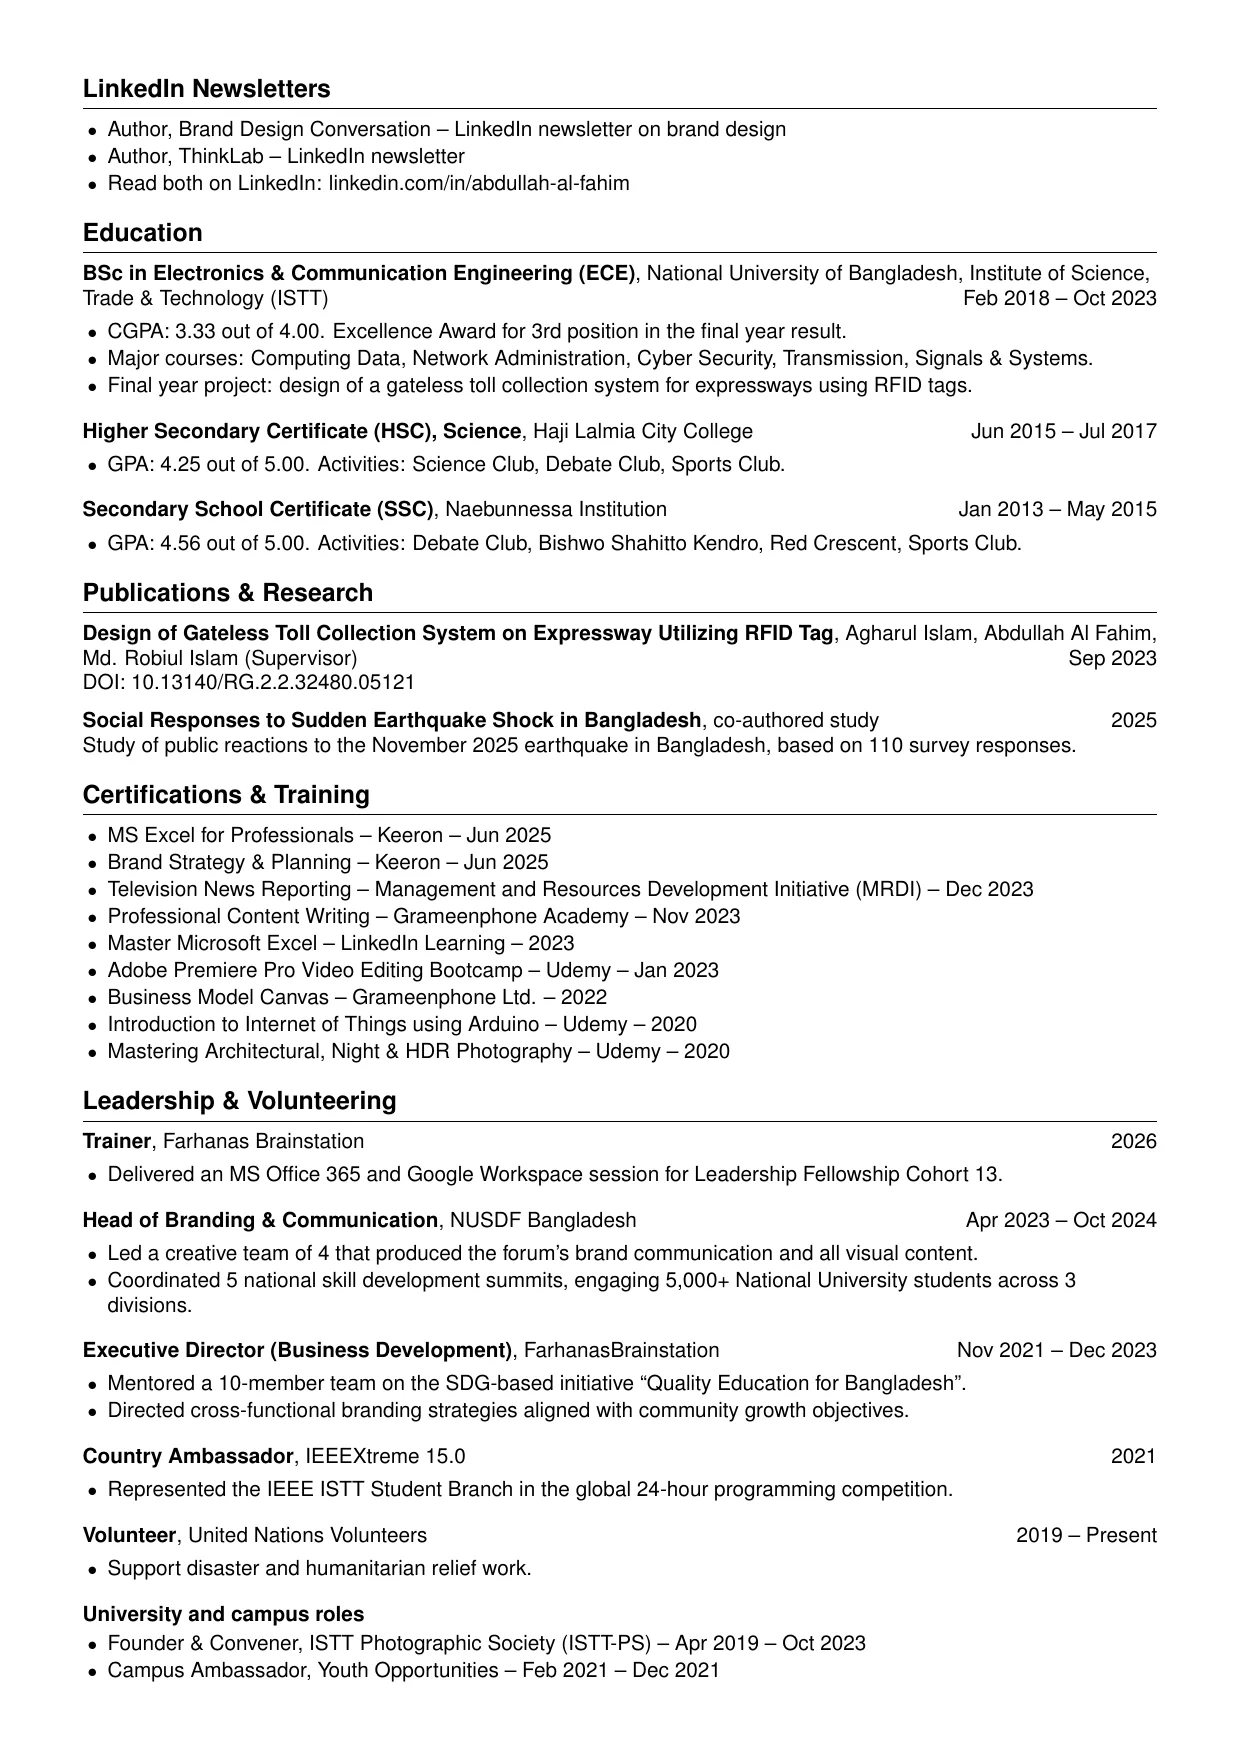
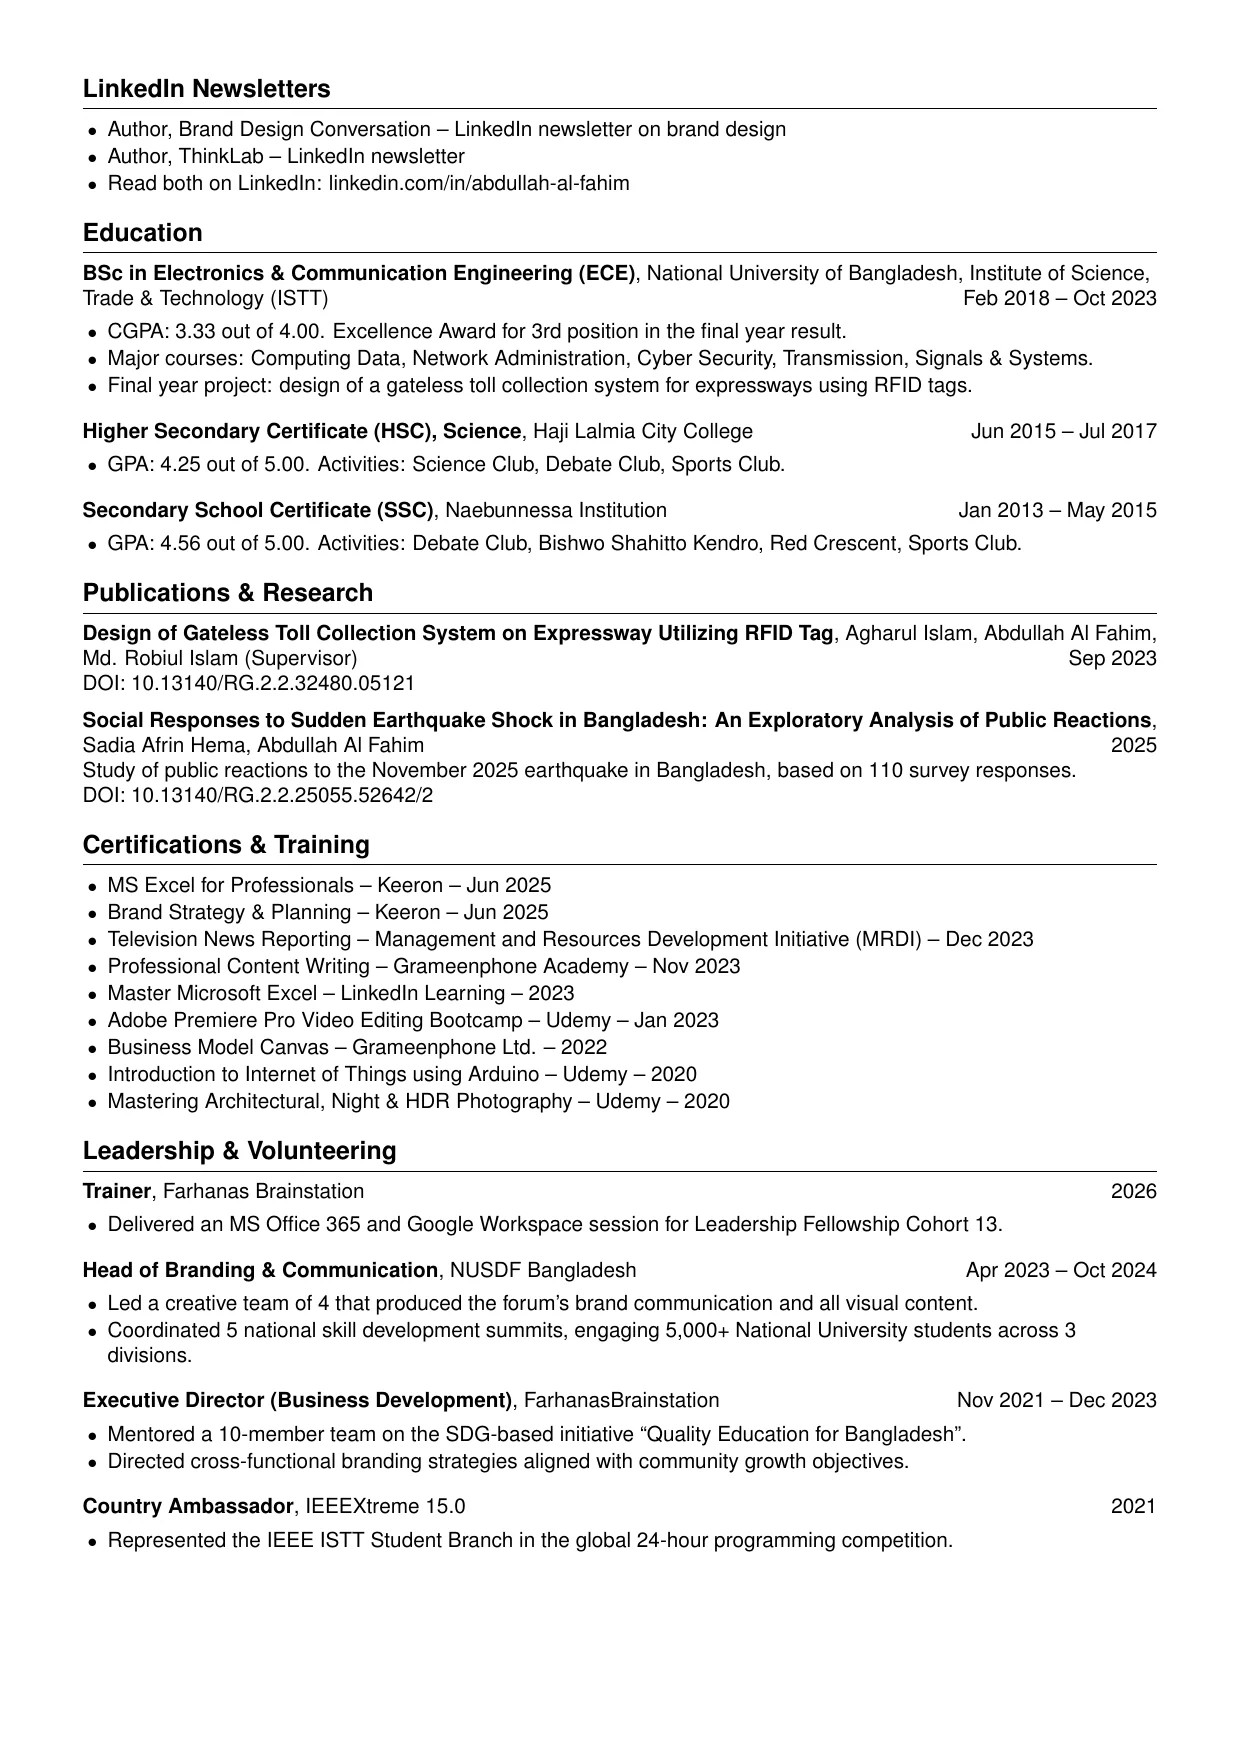
Update CV to V2026.11.004 (earthquake study DOI)
New PDF and page previews; the CV dialog shows the new version.

diff --git a/index.html b/index.html
@@ -661,7 +661,7 @@
 
   <dialog class="cvbox" id="cvBox" aria-labelledby="cvTitle">
     <div class="cv-head">
-      <div><b id="cvTitle">Abdullah Al Fahim · CV</b><small>V2026.11.003 · 4 pages</small></div>
+      <div><b id="cvTitle">Abdullah Al Fahim · CV</b><small>V2026.11.004 · 4 pages</small></div>
       <div class="acts">
         <a class="btn btn-violet" href="cv/Abdullah%20Al%20Fahim_CV.pdf" download="Abdullah Al Fahim_CV.pdf"><svg viewBox="0 0 24 24" style="fill:none" stroke="currentColor" stroke-width="2" stroke-linecap="round" stroke-linejoin="round" class="i" aria-hidden="true"><path d="M12 3v12m0 0-5-5m5 5 5-5M4 19h16"/></svg>Download PDF</a>
         <a class="btn btn-line" href="cv/Abdullah%20Al%20Fahim_CV.pdf" target="_blank" rel="noopener">Open PDF</a>
